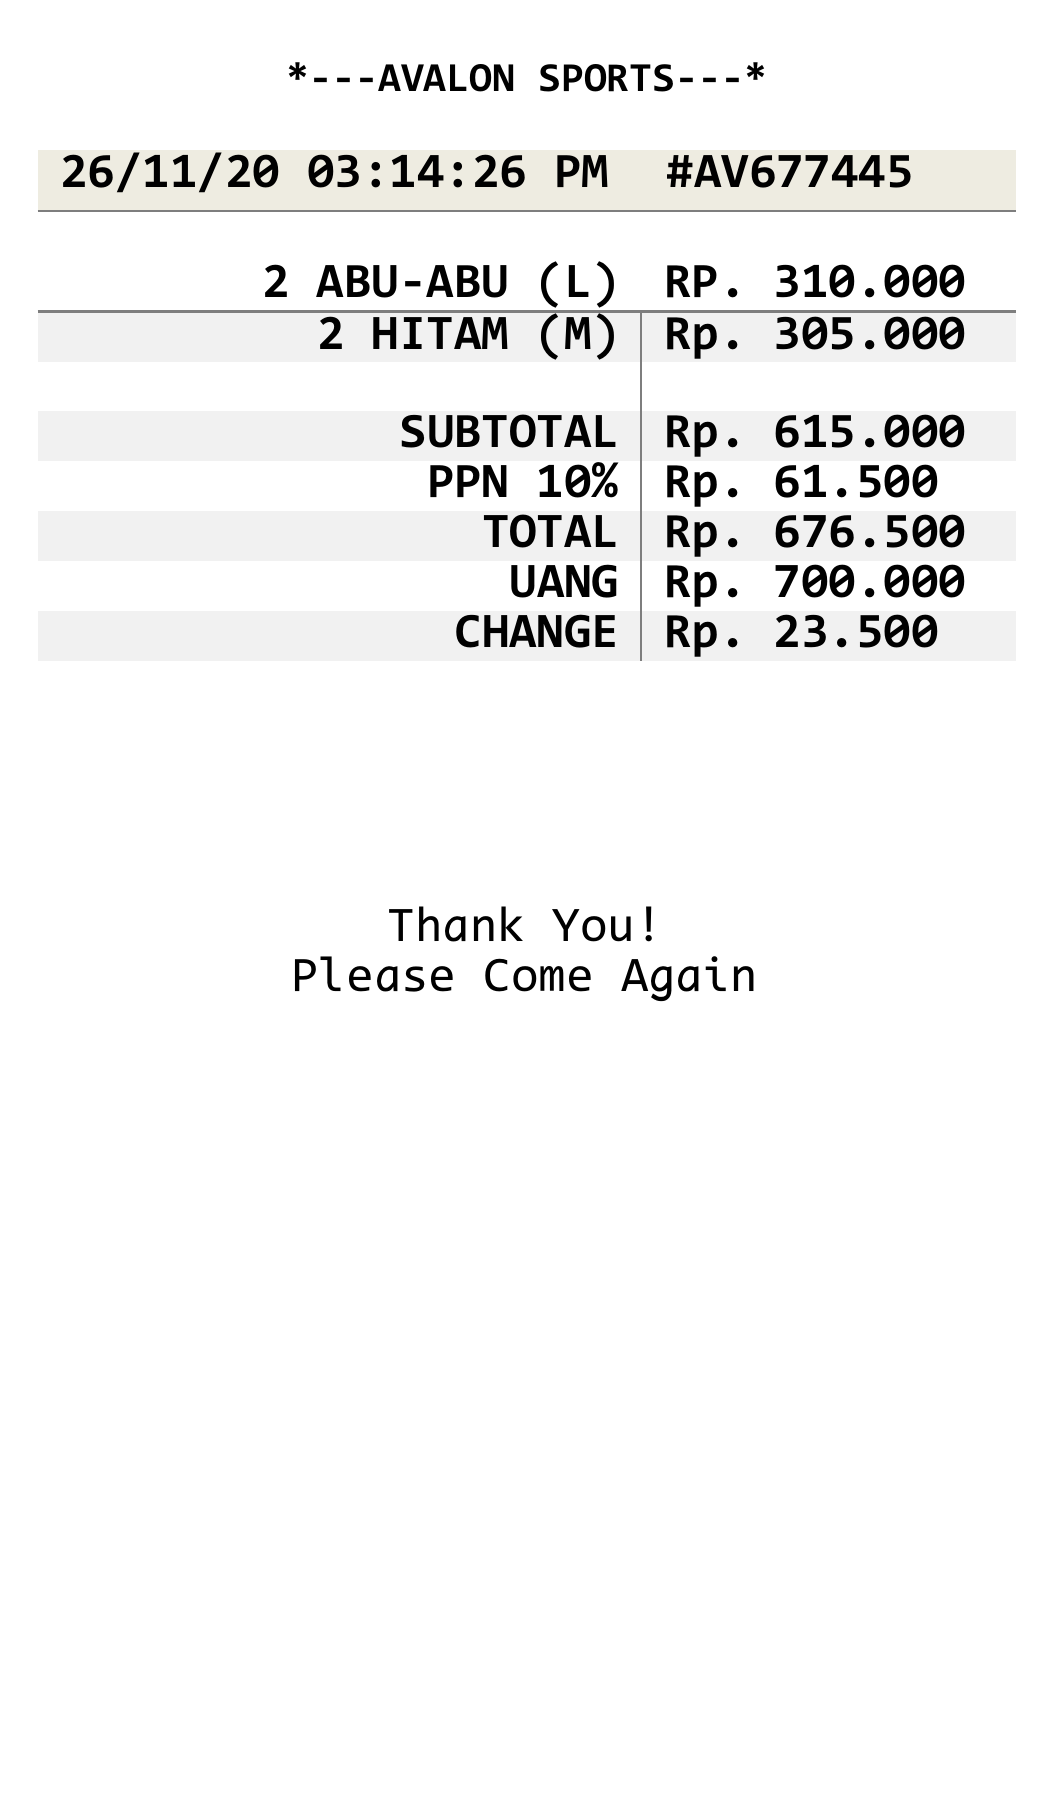
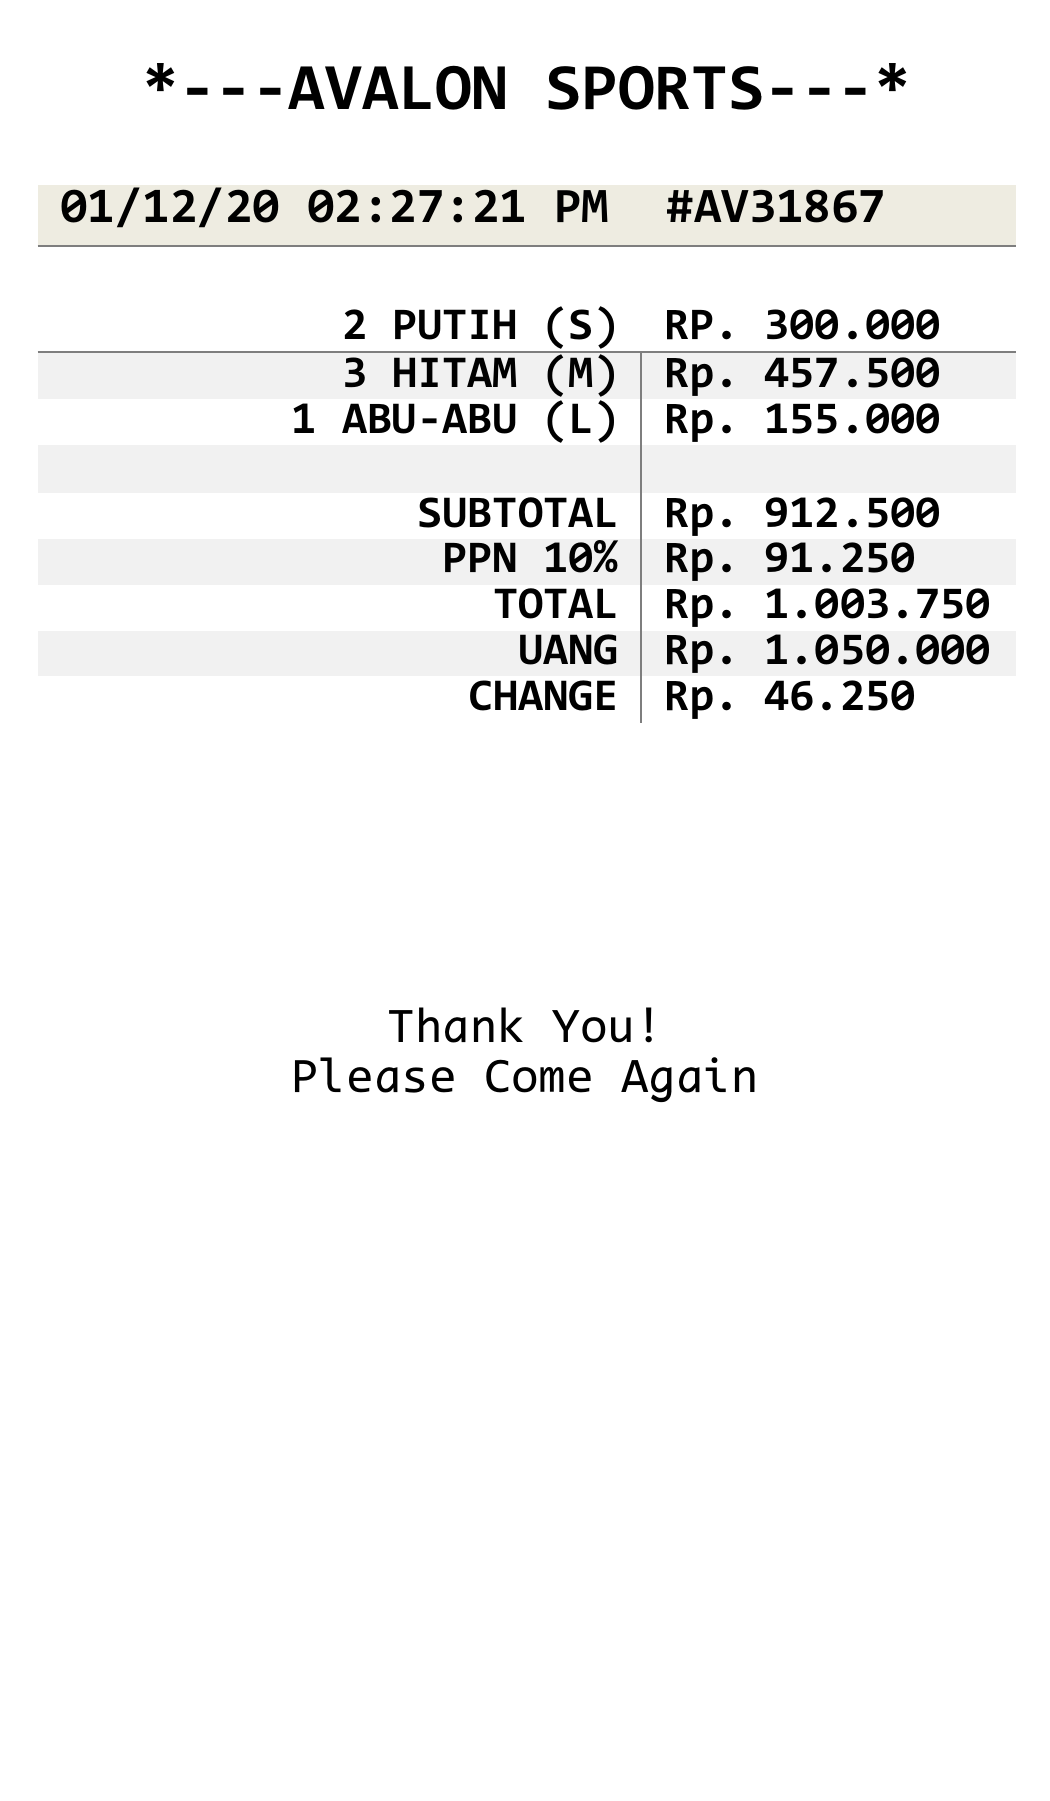
receipt: update for better looks

Changed region(s): [[0.0305, 0.0311, 0.9752, 0.4042], [0.2743, 0.4975, 0.7314, 0.6219], [0.2743, 0.2177, 0.3048, 0.2488]]

diff --git a/receipt.py b/receipt.py
@@ -13,8 +13,8 @@ from docx2pdf import convert
 from subprocess import PIPE, Popen, CalledProcessError
 
 
-WINDOWS = ['CodeNewRoman NF', 11]
-LINUX = ['CodeNewRoman Nerd Font Mono', 12]
+WINDOWS = ['CodeNewRoman NF', 10]
+LINUX = ['CodeNewRoman Nerd Font Mono', 11]
 
 windows = False
 if os.name == 'nt':
@@ -108,12 +108,18 @@ def cv() -> None:
     download_task_id = job['tasks'][2]['id']
     res = cloudconvert.Task.wait(id=download_task_id)
     files = res.get("result").get("files")[0]
+
+    if os.path.exists(files['filename']):
+        os.remove(files['filename'])
+
     with suppress_stdout():
         res = cloudconvert.download(
             filename=files['filename'], url=files['url'])
 
     os.remove('temp.docx')
     os.remove('temp.pdf')
+
+    return files['filename']
 
 
 def parse_data(d: datetime.datetime, no: list) -> None:
@@ -132,10 +138,10 @@ def parse_data(d: datetime.datetime, no: list) -> None:
             font = run.font
             if windows is True:
                 font.name = WINDOWS[0]
-                font.size = Pt(WINDOWS[1])
+                font.size = Pt(WINDOWS[1] + 1)
             else:
                 font.name = LINUX[0]
-                font.size = Pt(LINUX[1])
+                font.size = Pt(LINUX[1] + 1)
             font.bold = True
             run.text = cells_text[index]
     return document.save('temp.docx')

diff --git a/input.py b/input.py
@@ -131,6 +131,7 @@ if __name__ == "__main__":
     tax = round(raw_total * 0.1)
     total = raw_total + tax
 
+    print()
     print(f"\tSUBTOTAL\t| {rupiah_format(raw_total)}")
     print(f"\tPPN 10%\t\t| {rupiah_format(tax)}")
     print(f"\tTOTAL\t\t| {rupiah_format(total)}")
@@ -150,6 +151,7 @@ if __name__ == "__main__":
                 print()
                 for i in range(len(list_belanja)):
                     print(f"\t{list_belanja[i]}\t| {rupiah_format(total_bayar[i])}")
+                print()
                 print(f"\tSUBTOTAL\t| {rupiah_format(raw_total)}")
                 print(f"\tPPN 10%\t\t| {rupiah_format(tax)}")
                 print(f"\tTOTAL\t\t| {rupiah_format(total)}")
@@ -165,6 +167,7 @@ if __name__ == "__main__":
         print()
         for i in range(len(list_belanja)):
             print(f"\t{list_belanja[i]}\t| {rupiah_format(total_bayar[i])}")
+        print()
         print(f"\tSUBTOTAL\t| {rupiah_format(raw_total)}")
         print(f"\tPPN 10%\t\t| {rupiah_format(tax)}")
         print(f"\tTOTAL\t\t| {rupiah_format(total)}")
